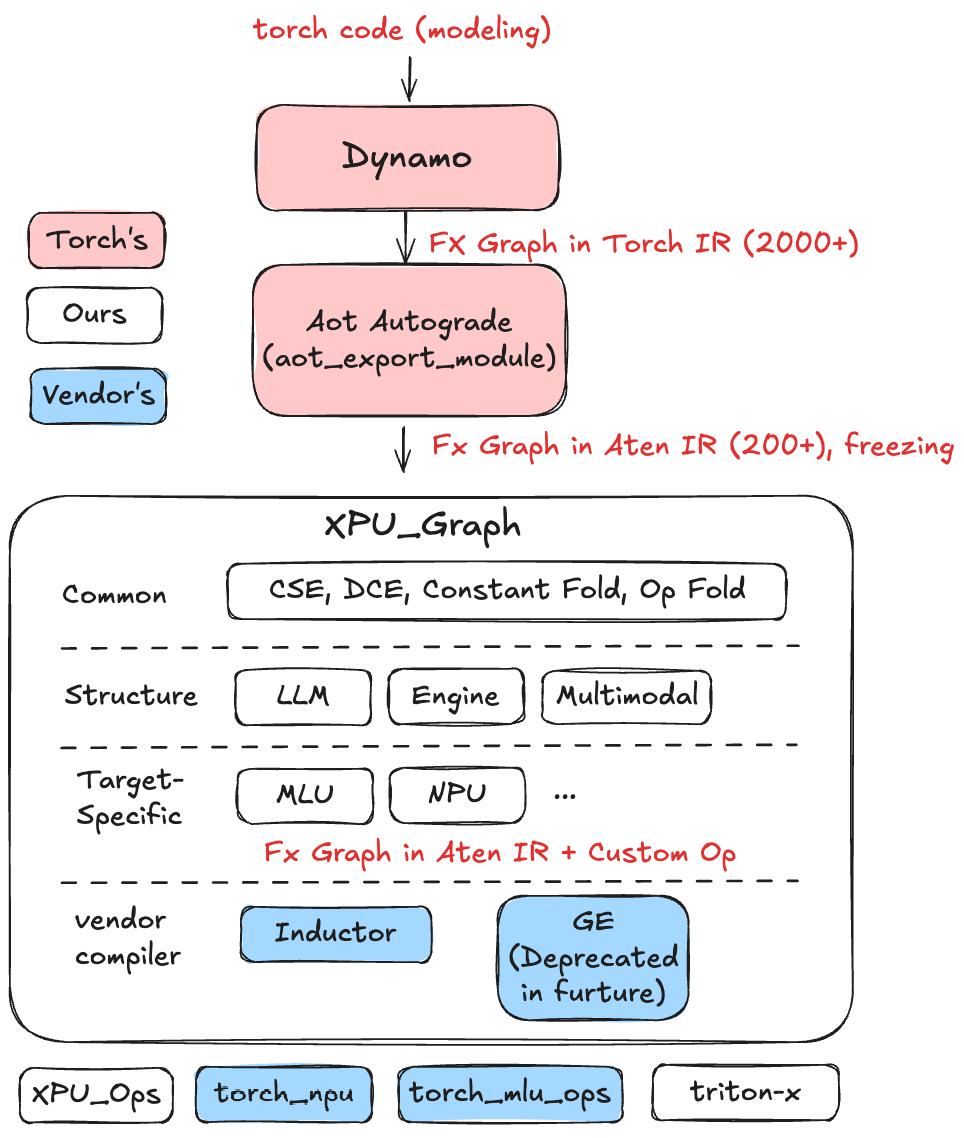
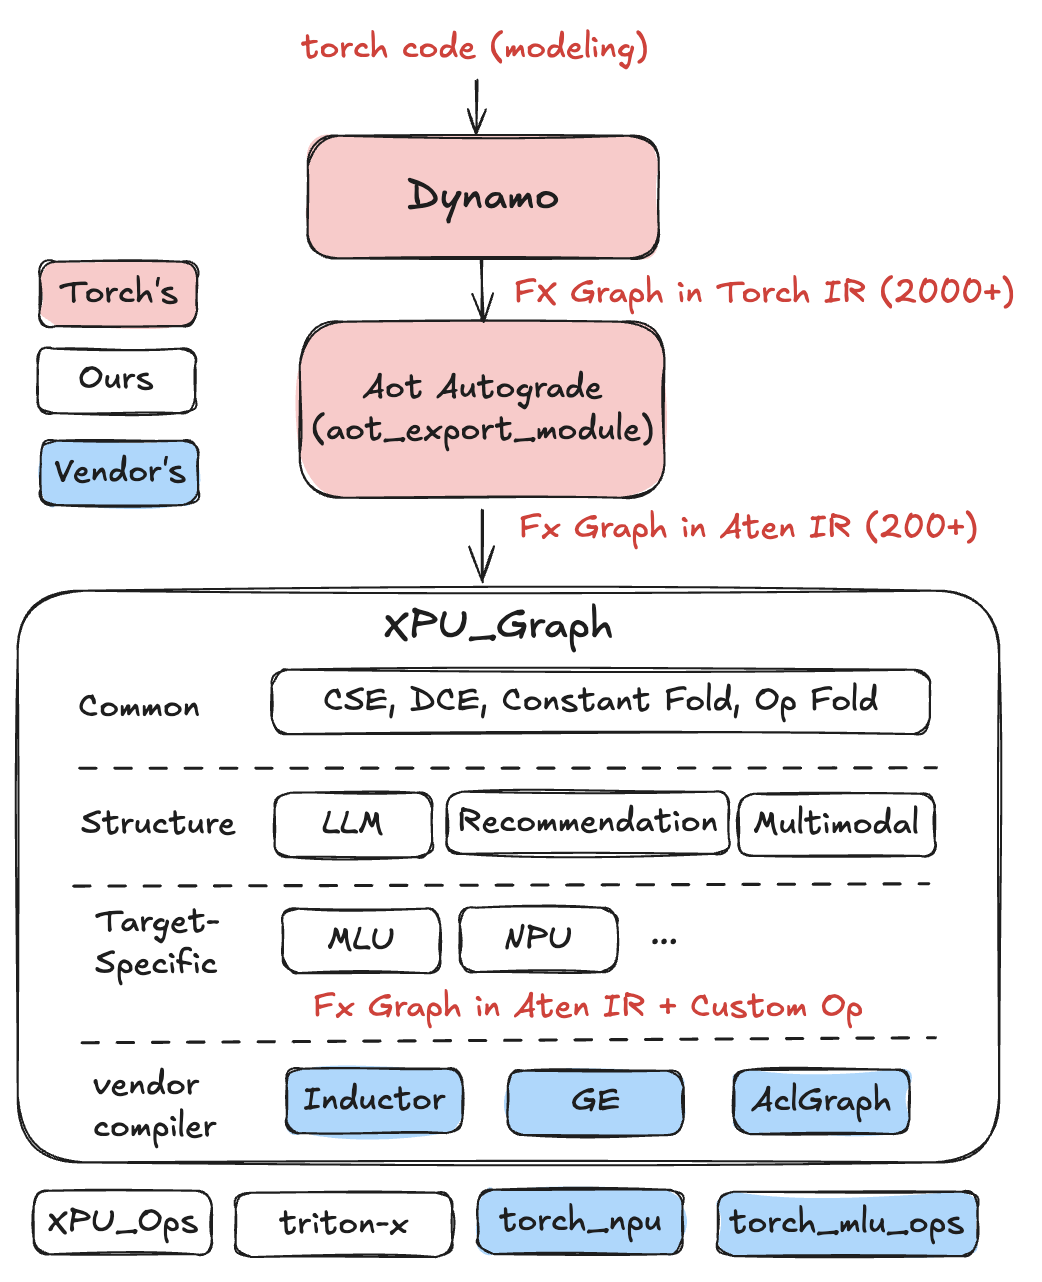
chore(README): add compilation pipeline

diff --git a/README.md b/README.md
@@ -1,12 +1,16 @@
 # xpu_graph
-![arch](./docs/xpu_graph_arch.png)
-XPU_GRAPH is a graph compiler based on torch [Fx graph](https://pytorch.org/docs/stable/fx.html) and [Aten IR](https://pytorch.org/docs/stable/torch.compiler_ir.html).
+<img src="./docs/xpu_graph_arch.png" alt="arch" style="display: block; margin: 0 auto; width: 60%;">
 
-Here are some features of XPU_GRAPH:
+XPU_GRAPH is a graph compiler based on torch [Fx graph](https://pytorch.org/docs/stable/fx.html) and [Aten IR](https://pytorch.org/docs/stable/torch.compiler_ir.html). Here are some features of XPU_GRAPH:
 * General graph optimizations: CSE, DCE, Op folding, Constant folding, and more aggresive constant propagation.
 * Vendor custom op conveter: convert less efficient ops (who will often cause a lot of memory access) to custom fused op.
 * Structure patterns: XPU_GRAPH abstracts common structural patterns, allowing users to implement the corresponding target structure. XPU_GRAPH will then convert the specified structure into the user-defined format.
 * Backend compiler integration: XPU_GRAPH is a fx-graph-in and fx-graph-out graph compiler, so it is compatible with other fx graph compiler, like Inductor and GE.
+* Support both of inference and training.
+
+## Compilation-pipeline
+
+<img src="./docs/compilation_pipeling.png" alt="pipeline" style="display: block; margin: 0 auto; width: 60%;">
 
 
 ## Environment requirements
